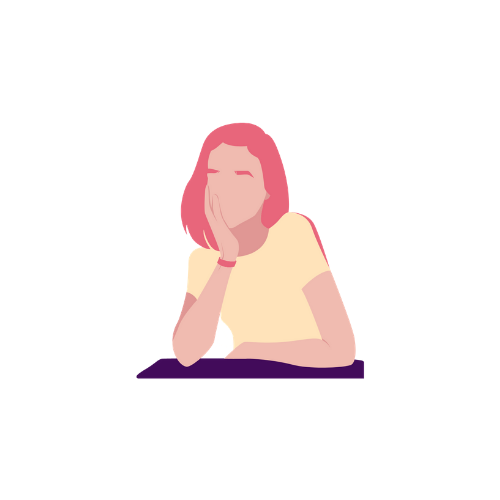
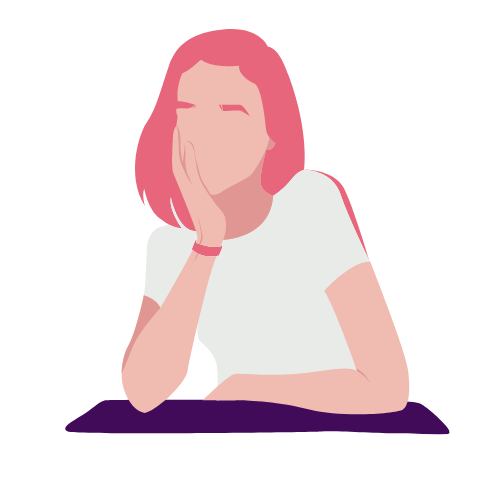
60% Home page

Changed region(s): [[0.12, 0.06, 0.9, 0.87], [0.66, 0.36, 0.72, 0.48]]

diff --git a/src/Components/Home/Home.js b/src/Components/Home/Home.js
@@ -1,14 +1,28 @@
 import React from 'react';
 import './Home.css';
-import '../Components/NavBar/NavBar';
-import NavBar from './Components/NavBar/NavBar';
-import {  Row, Col, Button } from "antd";
+import NavBar from '../NavBar/NavBar';
+import {  Row, Col, Button, Carousel } from "antd";
+import Girl from '../../Images/Girl.png'
+import Logo from '../../Images/WIE LOGO.png'
+import I1 from '../../Images/1.jpg'
+import I2 from '../../Images/2.jpg'
+import I3 from '../../Images/3.jpg'
+import I4 from '../../Images/4.jpg'
+import I5 from '../../Images/5.jpg'
+import I6 from '../../Images/6.jpg'
+//import WIE from '../../Images/WIETitle.png'
 
-
+const contentStyle = {
+  height: "60%",
+  textAlign: "center",
+  width : "60%",
+  margin: "5% 20%",
+};
 
 function Home() {
   return (
-    <div className="App">
+    <Col className="App" span={24}>
+      <img src={Girl} className="girlimg" alt="girl thinking"></img>
       <NavBar></NavBar>
       <Row className="firstRow">
         <Col span={10} className="welcomeSection" offset={4}> 
@@ -18,7 +32,7 @@ function Home() {
         
         </Col>
       </Row>
-      <div className="welcomeSection">
+      <div className="welcomeSection2">
         <h2 className="Title1">JOIN THE TEAM   </h2>
         <Row className="IEEESection">
           <Col>
@@ -41,8 +55,41 @@ function Home() {
         </Row>
         <p className="IEEEParagraph">EEE INSAT student branch is a branch of IEEE at insat institute, Tunis, Tunisia. Founded on january 2nd, 2013 by 12 students of the institute, it has now about 550 members and by that It breaks the record of the largest student branch in Region 8.</p>
       </div>
+
+      <div className="WIESection"> 
+        <Row className="WIESection">
+          <Col span={5}>
+            <img src={Logo} alt='logo' className="logo"></img>
+          </Col>
+          <Col span={15}>
+            <h1 className="WIETitle">WIE</h1>
+          </Col>
+        </Row>
+        <p className="IEEEParagraph">IEEE Women in Engineering (WIE) is a global network of IEEE members and volunteers dedicated to promoting women engineers and scientists, and inspiring girls around the world to follow their academic interests in a career in engineering and science.IEEE is the world’s largest technical professional organization dedicated to advancing technology for the benefit of humanity.</p>
+        <Carousel autoplay style={{"justify-content":"center"}}>
+          <div>
+            <img style={contentStyle} src={I1} alt="image0"></img>
+          </div>
+          <div>
+            <img style={contentStyle} src={I2} alt="image1"></img>
+          </div>
+          <div>
+            <img style={contentStyle} src={I3} alt="image2"></img>
+          </div>
+          <div>
+            <img style={contentStyle} src={I4} alt="image3"></img>
+          </div>
+          <div>
+            <img style={contentStyle} src={I5} alt="image4"></img>
+          </div>
+          <div>
+            <img style={contentStyle} src={I6} alt="image5"></img>
+          </div>
+          
+        </Carousel>
+      </div>
        
-    </div>
+    </Col>
   );
 }
 

diff --git a/src/Components/Home/Home.css b/src/Components/Home/Home.css
@@ -2,27 +2,10 @@
     background-color: rgb(90, 0, 116);
   }
   
-  
-  
-  
-  
-  @media only screen and (min-width: 770px) {
-    .App {
-      background-image: url("./Images/WIEE (1).png");
-    background-position: top;
-    background-size: cover;
-    }
-  }
-  
-  @media only screen and (min-width: 955px) {
-    .App {
-      background-image: url("./Images/WIEE.png");
-    background-position: top;
-    background-size: cover;
-    }
-  }
-  .firstRow {
-    height: 30em;
+  .girlimg{
+    position: absolute;
+    margin-left: 55%;
+    z-index: 5;
   }
   
   .Title {
@@ -42,8 +25,17 @@
   .welcomeSection {
     justify-content: center;
     align-items: center;
-    padding: 4em 1em;
+    padding: 2em 1em;
     text-align: center;
+   
+  }
+  .welcomeSection2 {
+    justify-content: center;
+    align-items: center;
+    padding: 2em 1em;
+    margin:0em 2em;
+    text-align: center;
+    background-color: white;
   }
   
   .IEEESection {
@@ -57,8 +49,7 @@
     font-family: sans-serif;
     color:rgb(94, 27, 123);
     text-align: center;
-    text-shadow: 2px 2px 4px #ffffff;
-    margin-right: 4em;
+    margin-right: 2em;
   }
   
   
@@ -104,4 +95,24 @@
     font-size: 1.5em;
     margin: .05em 5em;
     text-align: justify;
+  }
+
+  .WIESection{
+    justify-content: center;
+    align-items: center;
+    padding: 2em 1em;
+    margin:1em 2em;
+    text-align: center;
+    background-color: white;
+  }
+  
+  .logo {
+    width: 120%;
+  }
+
+  .WIETitle {
+    font-size: 1100%;
+    text-align: left;
+    color: darkorchid;
+    padding: 0em 0.8em;
   }

diff --git a/src/Components/NavBar/NavBar.js b/src/Components/NavBar/NavBar.js
@@ -7,7 +7,7 @@ import { HomeFilled, CaretRightOutlined } from "@ant-design/icons";
 const { SubMenu } = Menu;
 
 class NavBar extends React.Component {
-  state = {
+  /*state = {
     collapsed: false,
     mode : "horizontale"
   };
@@ -24,15 +24,14 @@ class NavBar extends React.Component {
     } else {
       this.setState({ collapsed: false , mode: "horizontal"});
     }
-  }
+  }*/
   render() {
     return (
      
         <Row className="na">
           <Col span={12} className="na" offset={1}>
             <Menu
-              mode={this.state.mode}
-              inlineCollapsed={this.state.collapsed}
+              mode= "horizontal"
               className="na"
             >
               <Menu.Item icon={<HomeFilled />} className="links">
@@ -48,9 +47,10 @@ class NavBar extends React.Component {
               <SubMenu
                 icon={<CaretRightOutlined />}
                 title="Activities"
-                className="links"
+                className="droplinks"
+                
               >
-                <Menu.Item key="setting:1" href="Events">
+                <Menu.Item key="setting:1" href="Events" >
                   Events
                 </Menu.Item>
                 <Menu.Item key="setting:2" href="Training">

diff --git a/src/App.js b/src/App.js
@@ -1,16 +1,14 @@
 import React from 'react';
 import './App.css';
 import './Components/NavBar/NavBar';
-import NavBar from './Components/NavBar/NavBar';
-import {  Row, Col, Button } from "antd";
+import Home from './Components/Home/Home';
+
 
 
 
 function App() {
   return (
-    <div className="App">
-      <NavBar></NavBar>
-    </div>
+    <Home></Home>
   );
 }
 

diff --git a/src/Components/NavBar/NavBar.css b/src/Components/NavBar/NavBar.css
@@ -19,7 +19,16 @@
   .links {
       color: seashell;
   }
+
+ .droplinks{
+  color: seashell;
+ }
   
   .ant-menu-horizontal > .ant-menu-item a {
     color: seashell;
 }
+
+.ant-menu-item, .ant-menu-submenu-title {
+  color: gray;
+}
+
